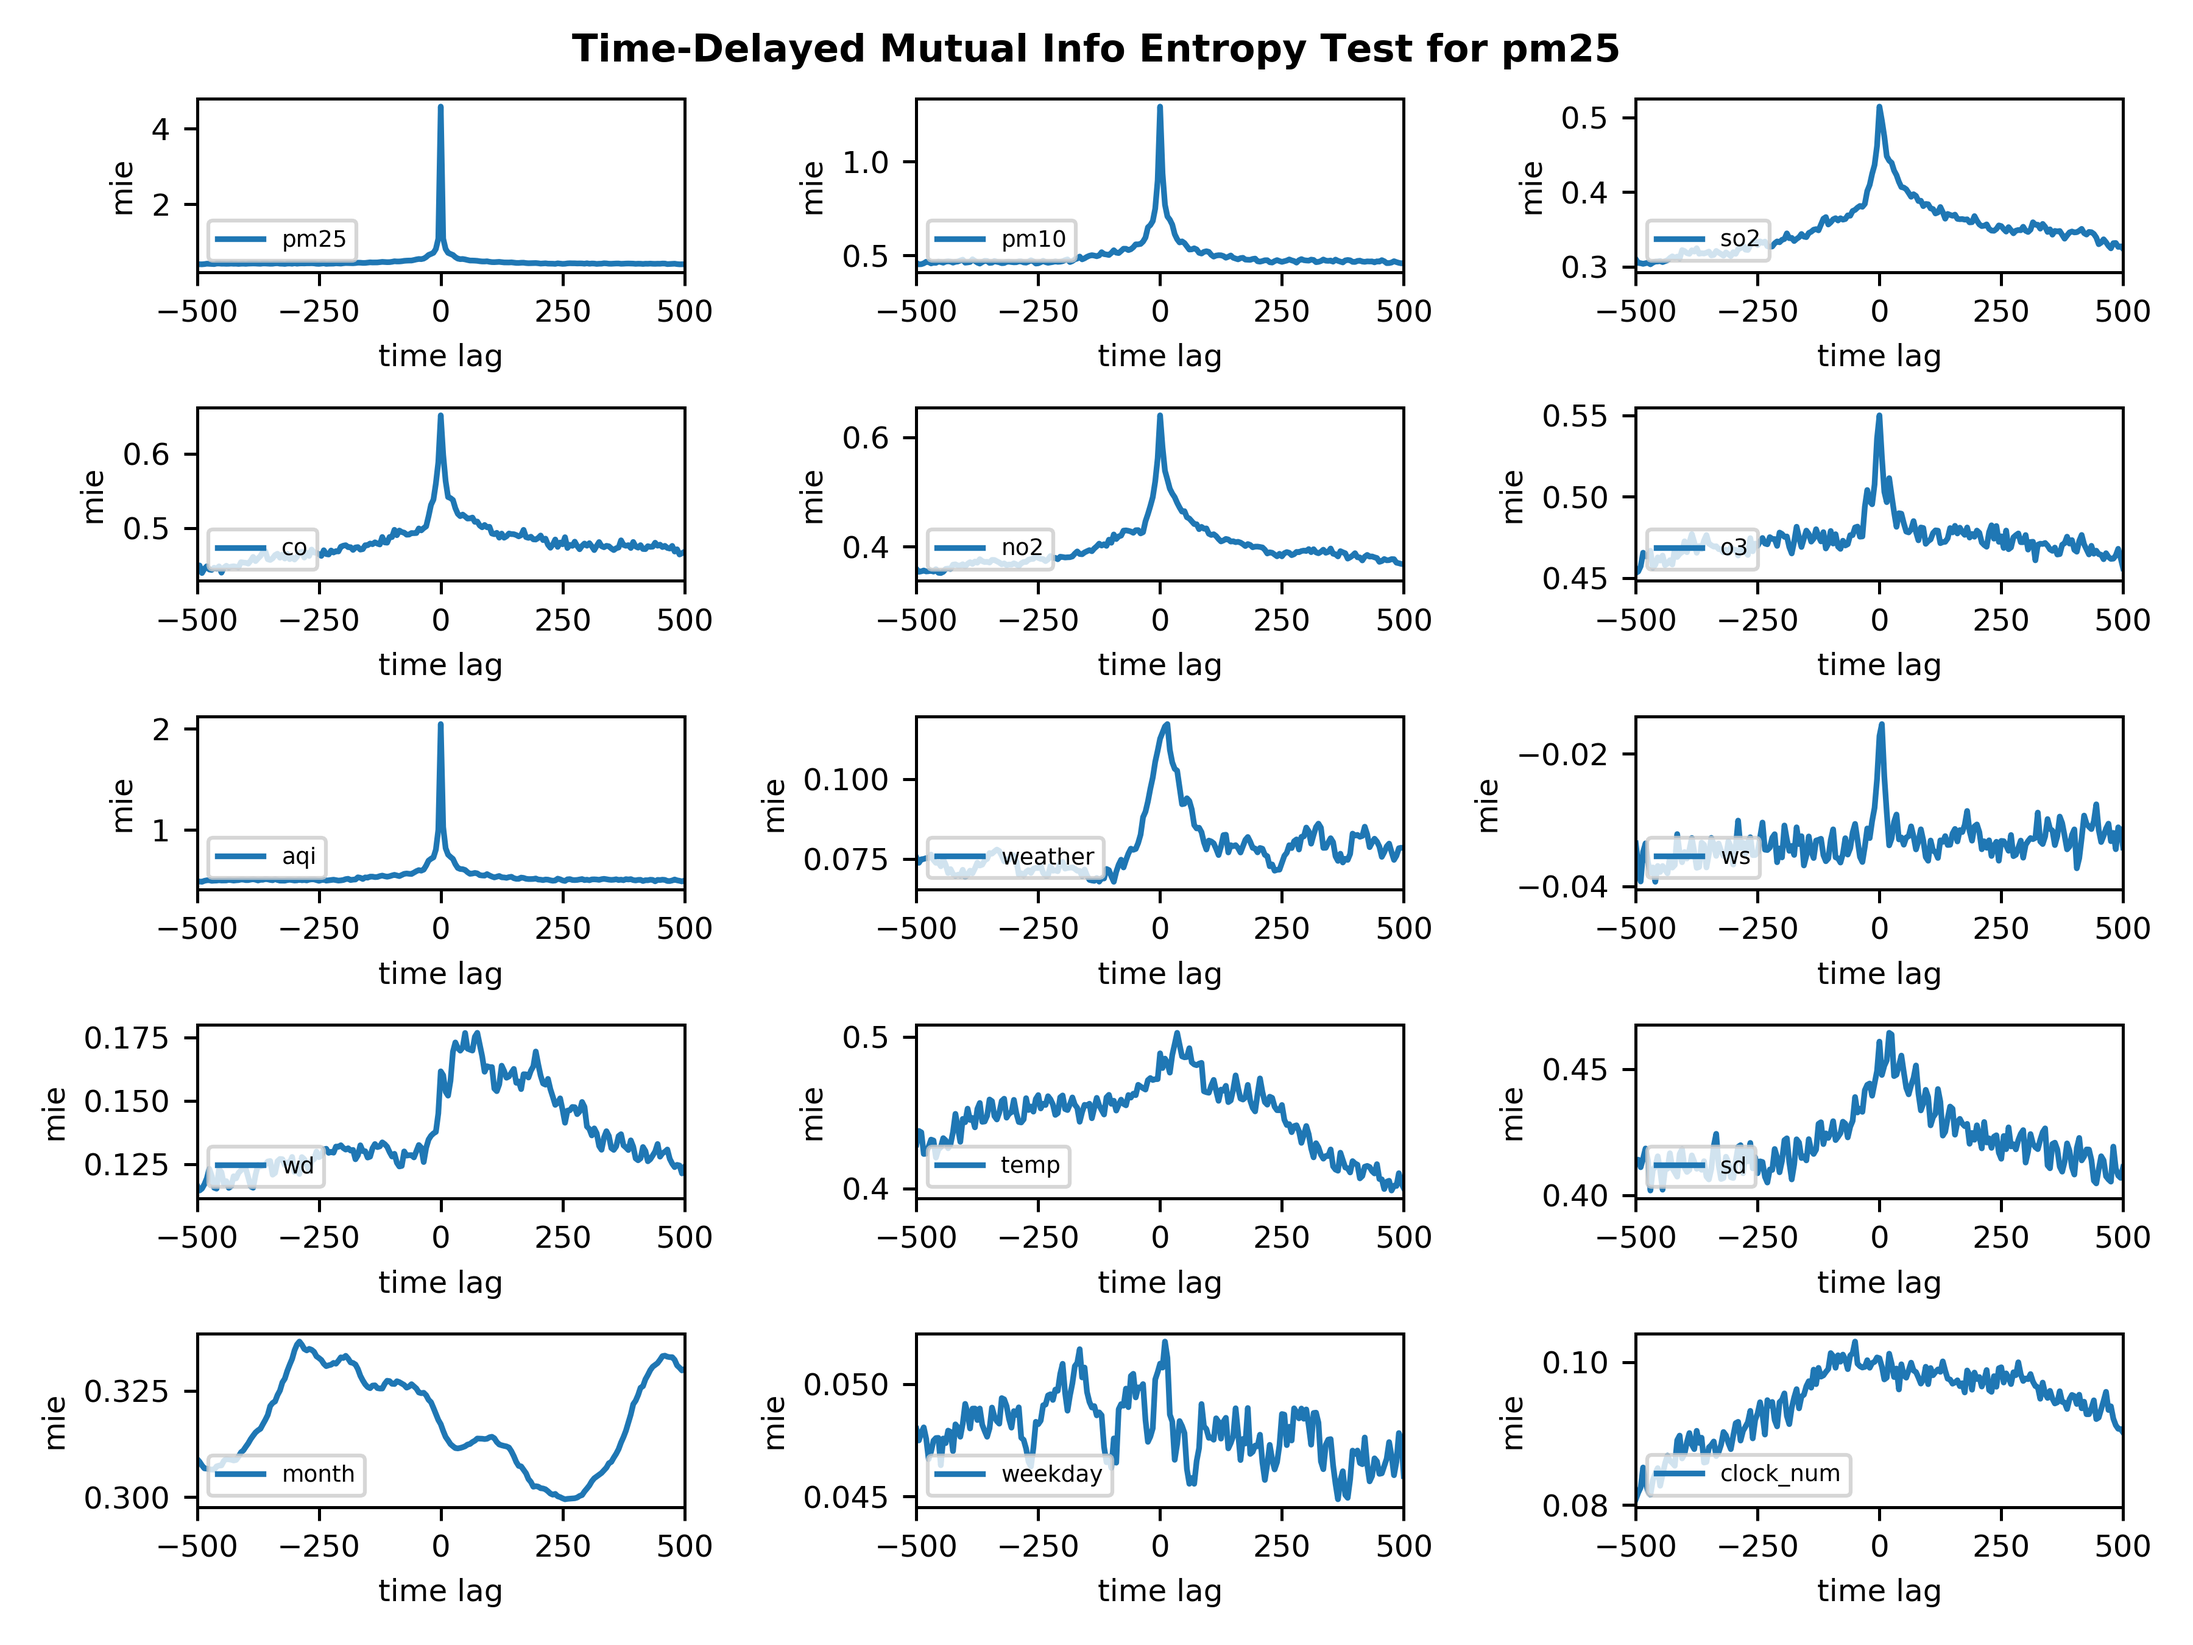
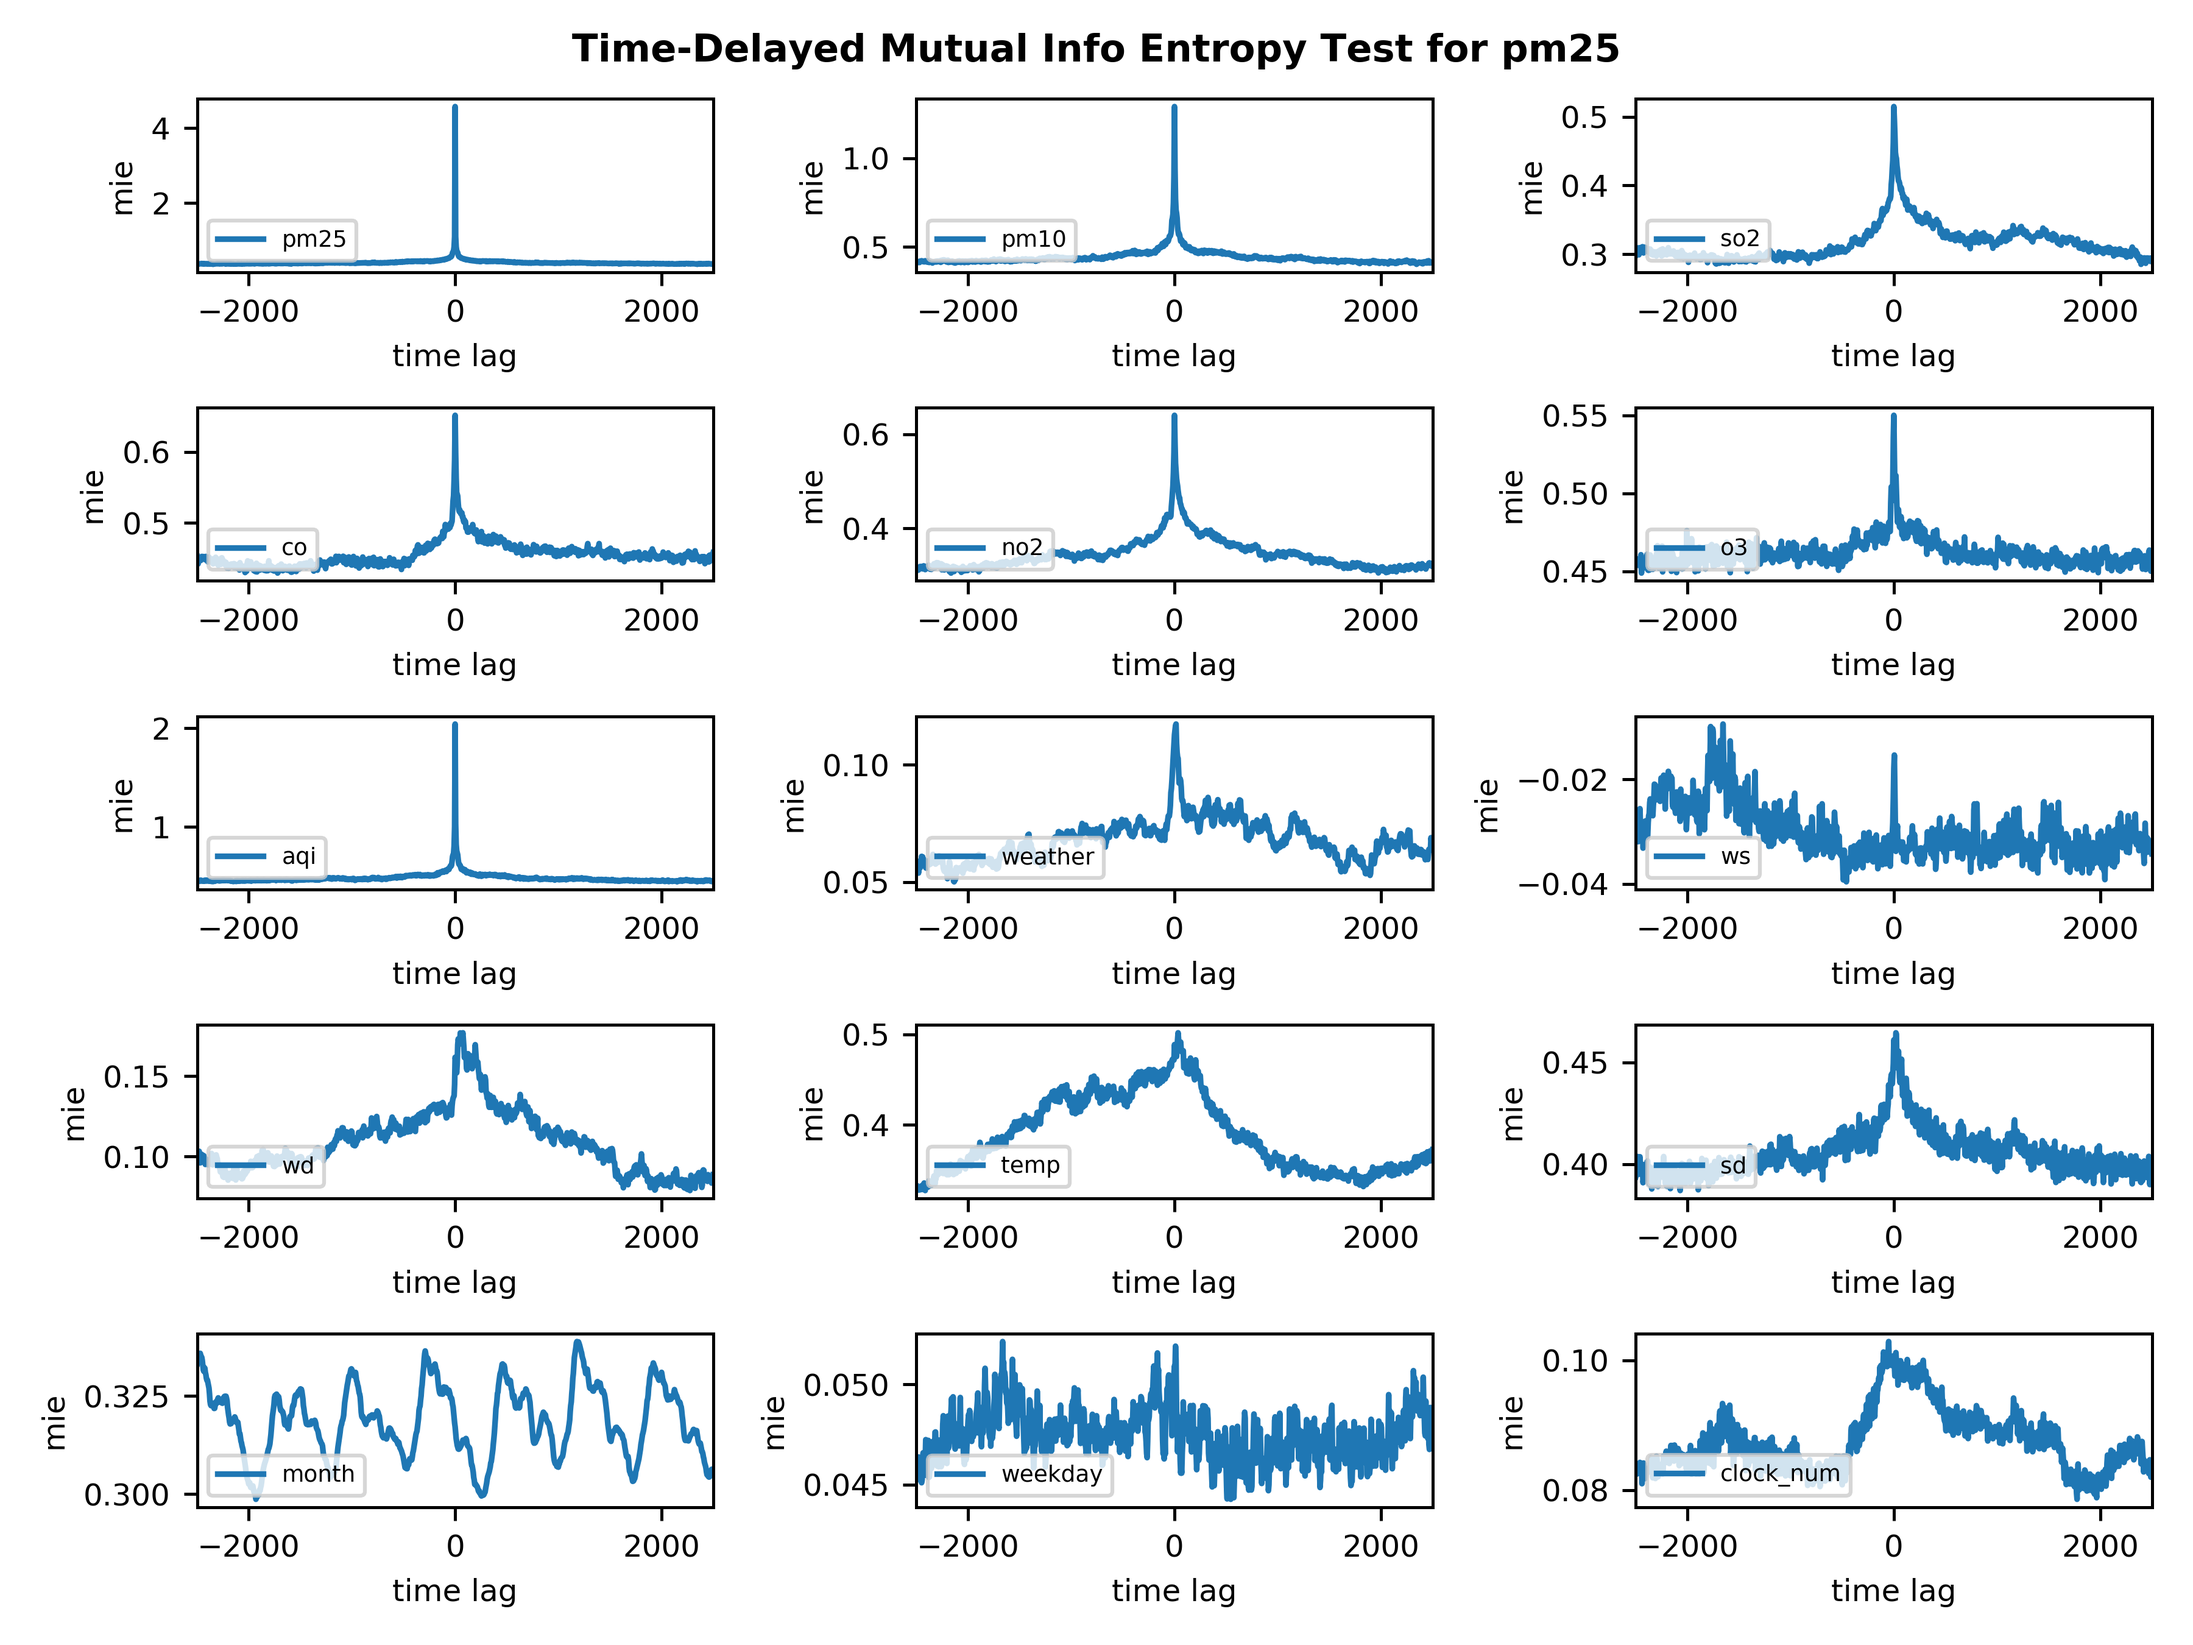
更新代码

diff --git a/lib/mutual_info_entropy/mutual_info_entropy.py b/lib/mutual_info_entropy/mutual_info_entropy.py
@@ -325,59 +325,6 @@ class ManyForOneMutualInfoEntropy(object):
 			td_mie_dict[lag] = mutual_info_entropy_
 		
 		return td_mie_dict
-		
-
-if __name__ == '__main__':
-	# %% 构建测试数据.
-	import matplotlib.pyplot as plt
-	import pandas as pd
-	import os
-	from lib import proj_dir
-	from lib import RECY_PUMP_ELEC_FIELDS, OXY_BLOWER_ELEC_FIELDS
-
-	data = pd.read_csv(os.path.join(proj_dir, 'data/runtime_segs/data_normalized.csv'))
-
-	# %% 测试PairwiseMutualInfoEntropy.
-	# 获得测试数据和参数.
-	x_field = 'ads_tower_gyp_supply_flow'
-	y_field = 'fgd_smoke_outlet_so2_conc'
-	x = np.array(data.loc[:, x_field])
-	y = np.array(data.loc[:, y_field])
-
-	value_types = ['continuous'] + ['continuous']
-	methods = ['quasi_chi2'] + ['quasi_chi2']
-	params = [{'init_bins': 250, 'final_bins': 100}] + [{'init_bins': 250, 'final_bins': 100}]
-	lags = list(np.arange(-5000, 5000 + 10, 10))
-
-	self = PairwiseMutualInfoEntropy(x, y, value_types)
-
-	# 测试self.cal_mie().
-	mie = self.cal_mie(methods, params)
-
-	# 测试self.cal_time_delayed_mie().
-	td_mie_dict = self.cal_time_delayed_mie(methods, params, lags)
-	plt.figure(1)
-	plt.plot(list(td_mie_dict.keys()), list(td_mie_dict.values()))
-	
-	# %% 测试ManyForOneMutualInfoEntropy.
-	# 获得测试数据和参数.
-	x_fields = RECY_PUMP_ELEC_FIELDS
-	x = np.array(data.loc[:, x_fields])
-	
-	value_types = ['discrete'] * len(x_fields) + ['continuous']
-	methods = ['label'] * len(x_fields) + ['quasi_chi2']
-	params = [{}] * len(x_fields) + [{'init_bins': 250, 'final_bins': 100}]
-	lags = list(np.arange(-5000, 5000 + 10, 10))
-	
-	self = ManyForOneMutualInfoEntropy(x, y, value_types)
-	
-	# 测试self.cal_mie().
-	mie = self.cal_mie(methods, params)
-	
-	# 测试self.cal_time_delayed_mie().
-	td_mie_dict = self.cal_time_delayed_mie(methods, params, lags)
-	plt.figure(2)
-	plt.plot(list(td_mie_dict.keys()), list(td_mie_dict.values()))
 	
 	
 

diff --git a/test/test_mutual_info_entropy.py b/test/test_mutual_info_entropy.py
@@ -35,7 +35,7 @@ if __name__ == '__main__':
 	
 	# %% 测试成对检验.
 	y_field = 'pm25'
-	lags = list(np.arange(-500, 500 + 5, 5))
+	lags = list(np.arange(-2500, 2500 + 5, 5))
 	plt.figure('td_mie', figsize = [8, 6])
 	plt.suptitle('Time-Delayed Mutual Info Entropy Test for {}'.format(y_field), fontsize = 10, fontweight = 'bold')
 	for i in range(1, len(data.columns)):
@@ -65,7 +65,7 @@ if __name__ == '__main__':
 		plt.yticks(fontsize = 8)
 		plt.xlabel('time lag', fontsize = 8)
 		plt.ylabel('mie', fontsize = 8)
-		plt.xlim([-500, 500])
+		plt.xlim([-2500, 2500])
 		plt.tight_layout()
 		plt.subplots_adjust(top = 0.94)
 	plt.savefig(os.path.join(proj_dir, 'img/pairwise_mie_test.png'), dpi = 450)
